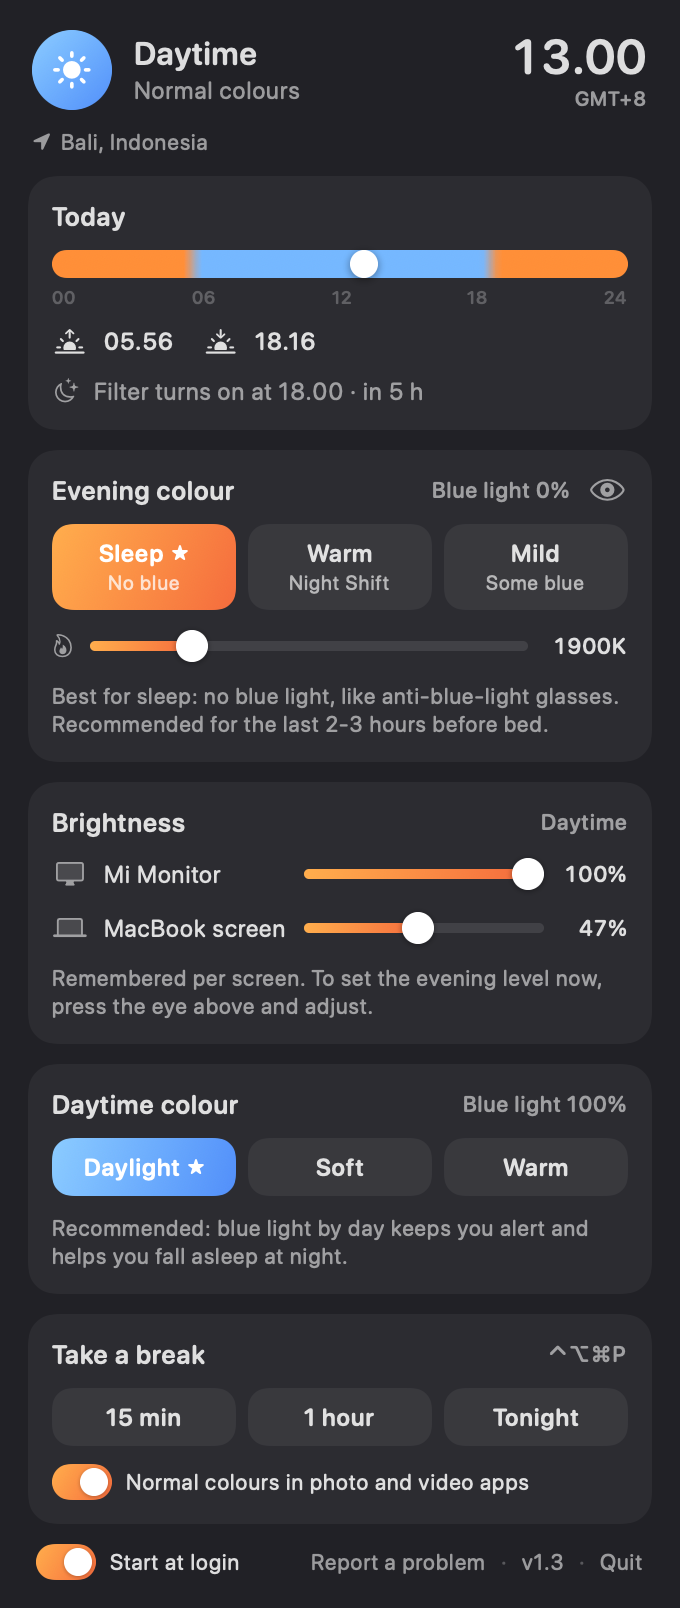
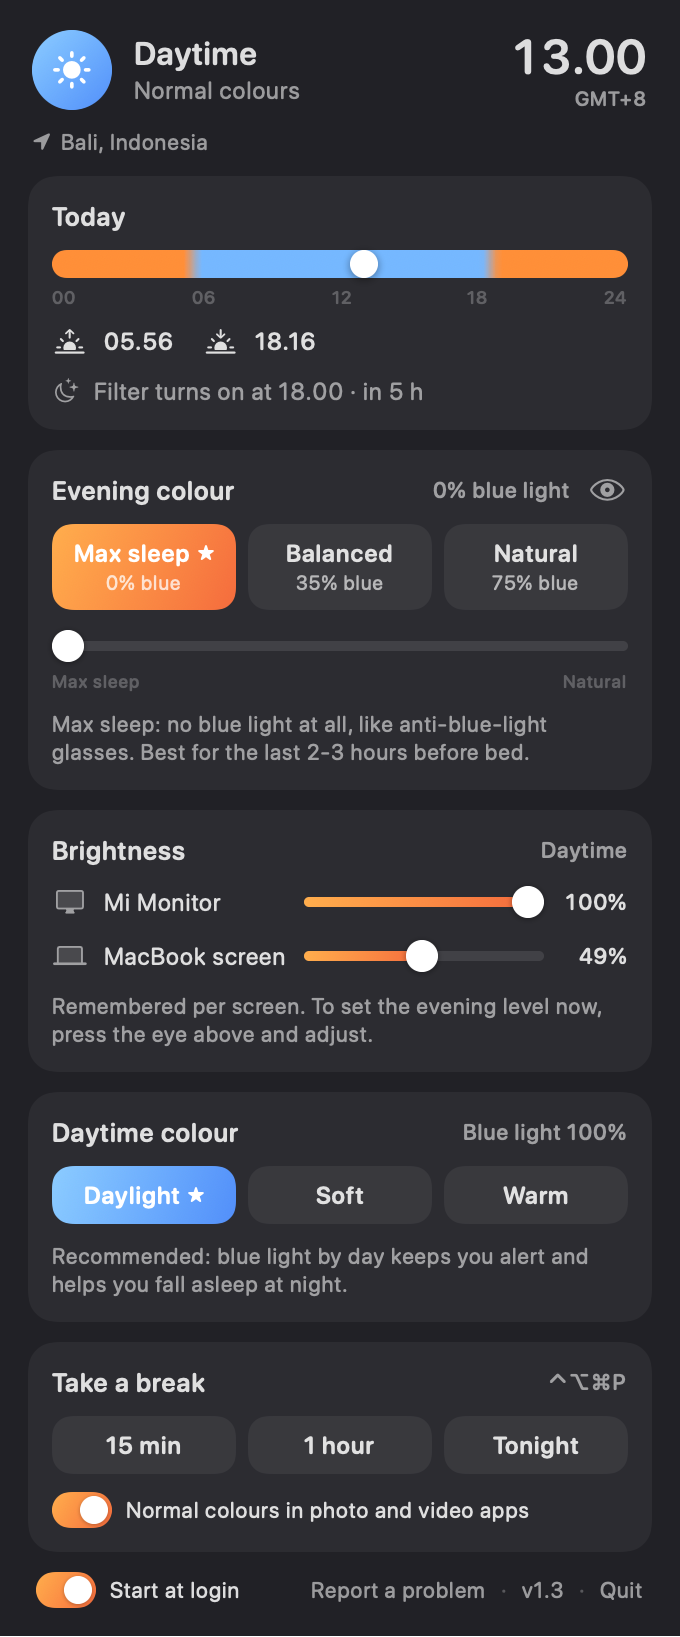
Guide: Open Terminal button, Sunscreen vs. f.lux and others, What's new section, new panel images

diff --git a/docs/index.html b/docs/index.html
@@ -212,6 +212,34 @@
   .settings .main p { color: #444 !important; margin: 0 0 8px; }
   .settings .main .b { display: inline-block; border-radius: 6px; padding: 5px 10px; background: #fff; border: 1px solid #ccc; font-weight: 600; outline: 2px solid var(--orange); outline-offset: 2px; }
 
+  /* Open Terminal button */
+  .term-btn { margin-top: 12px; }
+  .term-help { margin-top: 10px !important; padding: 10px 12px; border-radius: 10px; background: rgba(243, 154, 74, 0.14); color: var(--ink) !important; font-size: 14px; }
+
+  /* Comparison */
+  .table-wrap { overflow-x: auto; border-radius: 16px; border: 1px solid var(--line); box-shadow: var(--shadow); background: var(--card); }
+  table.versus { width: 100%; border-collapse: collapse; font-size: 14px; min-width: 620px; }
+  .versus th, .versus td { padding: 11px 12px; text-align: left; border-bottom: 1px solid var(--line); vertical-align: top; }
+  .versus tr:last-child td { border-bottom: 0; }
+  .versus thead th { font-size: 13px; color: var(--muted); font-weight: 600; }
+  .versus td:first-child { font-weight: 600; width: 30%; }
+  .versus .us { background: rgba(243, 154, 74, 0.10); font-weight: 600; }
+  .versus thead .us { color: var(--orange); }
+  .versus .yes { color: #2f9e57; }
+  .versus .us.yes { color: var(--orange); }
+  .versus .no { color: var(--muted); }
+  .versus .na { color: var(--muted); opacity: 0.7; }
+  .fine { color: var(--muted); font-size: 13px; margin-top: 12px; }
+
+  /* Changelog */
+  .changes { display: grid; gap: 10px; }
+  .release { background: var(--card); border: 1px solid var(--line); border-radius: 14px; padding: 14px 16px; box-shadow: var(--shadow); }
+  .release h3 { margin: 0 0 6px; font-size: 16px; display: flex; gap: 10px; align-items: baseline; }
+  .release h3 span { color: var(--muted); font-weight: 500; font-size: 13px; }
+  .release ul { margin: 0; padding-left: 18px; color: var(--muted); }
+  .release li { margin: 3px 0; }
+  .show-all { justify-self: start; }
+
   /* FAQ */
   .faq { display: grid; gap: 10px; }
   .faq div { background: var(--card); border: 1px solid var(--line); border-radius: 14px; padding: 14px 16px; box-shadow: var(--shadow); }
@@ -287,7 +315,11 @@
         <div>
           <h3>Open Terminal</h3>
           <p>
-            Press <kbd>⌘</kbd> and <kbd>Space</kbd> together, type <b>Terminal</b> and press <kbd>Enter</kbd>.
+            Click the button. Or press <kbd>⌘</kbd> and <kbd>Space</kbd> together, type <b>Terminal</b> and press <kbd>Enter</kbd>.
+          </p>
+          <button class="btn primary term-btn" type="button" id="openTerminal">Open Terminal for me</button>
+          <p class="term-help" id="terminalHelp" hidden>
+            Terminal opens with a short help text. Press <kbd>⌘</kbd><kbd>N</kbd> for a fresh window, then <kbd>⌘</kbd><kbd>V</kbd> and <kbd>Enter</kbd>. The install line is already copied for you. If your browser asks, click <b>Allow</b>.
           </p>
         </div>
         <div class="mock" aria-hidden="true">
@@ -369,7 +401,7 @@ Downloading Sunscreen...
         <b>See your day.</b> Where you are, the time, sunrise, sunset and when the filter turns on.
       </li>
       <li>
-        <b>Pick Sleep.</b> Zero blue light in the evening, like blue-light glasses. That's the recommendation. For daytime, Daylight is recommended: blue light by day keeps you alert and helps you sleep at night.
+        <b>Pick how much blue light.</b> <b>Max sleep</b> means 0% blue light in the evening, like blue-light glasses. That's the recommendation. Slide towards <b>Natural</b> for more normal-looking colours. For daytime, Daylight is recommended: blue light by day keeps you alert and helps you sleep at night.
       </li>
       <li>
         <b>Set brightness per screen.</b> One slider for each screen, MacBook included. Sunscreen remembers what you pick in the daytime and in the evening, and switches between them with the sun.
@@ -439,6 +471,41 @@ Downloading Sunscreen...
         </div>
       </div>
     </details>
+  </section>
+
+  <section id="compare">
+    <h2>Sunscreen vs. the others</h2>
+    <p class="lead">Built from what people complain about in other apps. How it compares, based on each app's own website and user reports:</p>
+    <div class="table-wrap">
+      <table class="versus">
+        <thead>
+          <tr><th></th><th class="us">Sunscreen</th><th>f.lux</th><th>Night Shift</th><th>Lunar</th><th>MonitorControl</th></tr>
+        </thead>
+        <tbody>
+          <tr><td>Price</td><td class="us">Free</td><td>Free</td><td>Built into macOS</td><td>Free, Pro $23</td><td>Free</td></tr>
+          <tr><td>0% blue light in the evening</td><td class="us yes">Yes</td><td class="yes">Yes</td><td class="no">No</td><td class="na">Not a colour app</td><td class="na">Not a colour app</td></tr>
+          <tr><td>Follows sunset where you are</td><td class="us yes">Yes</td><td class="yes">Yes</td><td class="yes">Yes</td><td>Pro, for brightness</td><td class="no">No</td></tr>
+          <tr><td>Dims external monitors itself</td><td class="us yes">Yes</td><td class="no">No</td><td class="no">No</td><td class="yes">Yes</td><td class="yes">Yes</td></tr>
+          <tr><td>Remembers day and evening brightness per screen</td><td class="us yes">Yes</td><td class="no">No</td><td class="no">No</td><td>Pro, learns from you</td><td class="no">No, by hand</td></tr>
+          <tr><td>Normal colours in photo and video apps</td><td class="us yes">Automatic</td><td>Per app, by hand</td><td class="no">No</td><td class="na">-</td><td class="na">-</td></tr>
+          <tr><td>Smooth fades on every change</td><td class="us yes">Yes</td><td class="yes">Yes</td><td class="yes">Yes</td><td class="na">-</td><td class="na">-</td></tr>
+        </tbody>
+      </table>
+    </div>
+    <ul class="tips">
+      <li><b>f.lux</b> pioneered all this and is still great. On Mac its last release came out in 2024.</li>
+      <li><b>Night Shift</b> needs nothing installed, but even at its warmest a fair amount of blue light gets through.</li>
+      <li><b>Lunar</b> and <b>BetterDisplay</b> are powerful for monitor brightness; their automatic modes and colour features cost money.</li>
+      <li><b>MonitorControl</b> is free and solid for monitor brightness, but doesn't change colours or follow the sun.</li>
+      <li><b>Sunscreen</b> is new. If something doesn't work on your setup, the report button sends it straight to the developer, and fixes arrive as automatic updates.</li>
+    </ul>
+    <p class="fine">Based on each app's website, documentation and user reports, October 2026. Prices and features can change.</p>
+  </section>
+
+  <section id="changelog">
+    <h2>What's new</h2>
+    <p class="lead">Every update, newest first. Sunscreen installs updates itself.</p>
+    <div id="changes" class="changes"><p class="fine">See <a href="https://github.com/rmmarketingmcc/sunscreen/releases">all releases on GitHub</a>.</p></div>
   </section>
 
   <section>
@@ -512,6 +579,38 @@ Downloading Sunscreen...
         navigator.clipboard.writeText(text).then(done, function () { selectCmd(); });
       } else { selectCmd(); }
     });
+    document.getElementById("openTerminal").addEventListener("click", function () {
+      var text = document.getElementById("cmd").textContent.trim();
+      if (navigator.clipboard && navigator.clipboard.writeText) { navigator.clipboard.writeText(text).catch(function () {}); }
+      document.getElementById("terminalHelp").hidden = false;
+      // Terminal handles x-man-page links: this opens it with the tiny "true" help page.
+      window.location.href = "x-man-page://true";
+    });
+
+    fetch("changelog.json", { cache: "no-store" }).then(function (r) { return r.json(); }).then(function (entries) {
+      var box = document.getElementById("changes");
+      box.innerHTML = "";
+      entries.forEach(function (e, i) {
+        var el = document.createElement("div");
+        el.className = "release";
+        if (i > 2) el.hidden = true;
+        var h = document.createElement("h3");
+        h.textContent = "Version " + e.version + " ";
+        var d = document.createElement("span");
+        d.textContent = new Date(e.date + "T12:00:00").toLocaleDateString("en-GB", { day: "numeric", month: "long", year: "numeric" });
+        h.appendChild(d);
+        var ul = document.createElement("ul");
+        e.notes.forEach(function (n) { var li = document.createElement("li"); li.textContent = n; ul.appendChild(li); });
+        el.appendChild(h); el.appendChild(ul); box.appendChild(el);
+      });
+      if (entries.length > 3) {
+        var more = document.createElement("button");
+        more.className = "btn ghost show-all"; more.type = "button"; more.textContent = "Show all " + entries.length + " updates";
+        more.addEventListener("click", function () { box.querySelectorAll(".release").forEach(function (r) { r.hidden = false; }); more.remove(); });
+        box.appendChild(more);
+      }
+    }).catch(function () {});
+
     function selectCmd() {
       var r = document.createRange();
       r.selectNodeContents(document.getElementById("cmd"));
